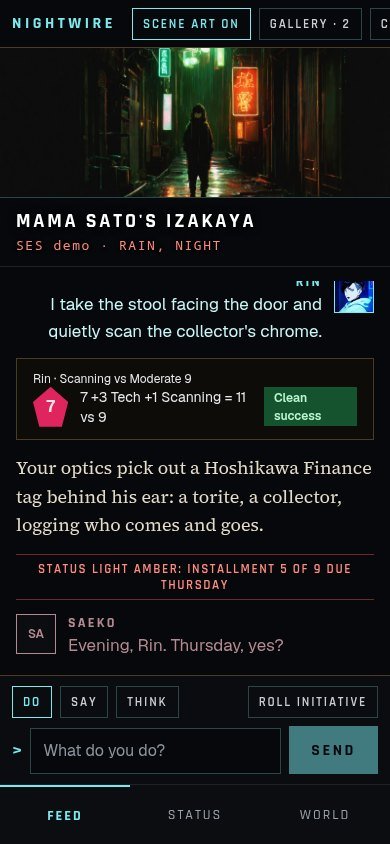
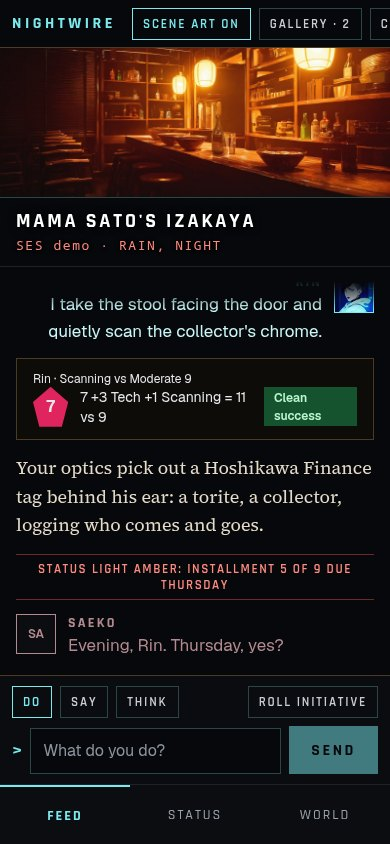
docs: refresh the repo with the new look
New banner, social preview and Homepage icon from approved Kuroshio art,
cast and places grids, and new screenshots of the play screen, overclock,
debt, tsukumogami, gallery and phone views. Removes the old SVG branding
and violet-theme screenshots.

diff --git a/homepage_integrate.py b/homepage_integrate.py
@@ -19,7 +19,7 @@ from pathlib import Path
 import yaml
 
 GROUP_NAME = "Nightwire"
-ICON_URL = "https://raw.githubusercontent.com/Cyb3rRon1n/nightwire/main/docs/images/logo.svg"
+ICON_URL = "https://raw.githubusercontent.com/Cyb3rRon1n/nightwire/main/docs/images/icon.png"
 
 
 def find_vulcan_stack(search_paths: list[Path] | None = None) -> Path | None:

diff --git a/README.md b/README.md
@@ -5,8 +5,8 @@
 </p>
 
 <p align="center">
-  <img src="docs/images/banner.svg"
-       alt="Nightwire - A cyberpunk AI game master for real-time tabletop sessions"
+  <img src="docs/images/banner.jpg"
+       alt="Nightwire, a cyberpunk AI game master: the wordmark over a rainy neon alley in Kuroshio"
        style="max-width: 100%; height: auto;">
 </p>
 
@@ -18,7 +18,17 @@ A cyberpunk tabletop RPG with an AI game master — playable solo or with friend
 
 Sibling project to [`oracle`](https://github.com/Cyb3rRon1n/oracle) (a D&D-flavored AI-DM) — built fresh rather than adapted, and researched independently at every design decision rather than leaning on oracle as precedent (see `ROADMAP.md`'s "Why a fresh project" section for the reasoning, and every spec under `docs/superpowers/specs/` for the citations behind each mechanic).
 
-**Status**: Phases 1–10 built and live-verified — ruleset, engine, AI narrator, web frontend, image generation (two backends, MLX and ComfyUI), text-to-speech (character-distinct voices), a skill system, photo-reference portraits, and attribute point-buy all work end to end. See `ROADMAP.md`'s Phases section for the full build history.
+**Status**: Phases 1–20 built:
+- the ruleset, engine and AI narrator,
+- image generation in one approved anime-cyberpunk look,
+- character-distinct voices,
+- skills and attributes,
+- chrome, humanity and chrome debt,
+- the tsukumogami origin,
+- the Kuroshio world bible and design studio, with 21 approved characters and the approved places,
+- the new messenger-style play screen.
+
+See `ROADMAP.md`'s Phases section for the full build history.
 
 ## What makes it Nightwire
 
@@ -26,7 +36,8 @@ Sibling project to [`oracle`](https://github.com/Cyb3rRon1n/oracle) (a D&D-flavo
 - **A tiered 1d10 resolution, not d20.** `1d10 + attribute + skill` vs. a difficulty class, deliberately the lowest-complexity class of cyberpunk system surveyed (Cyberpunk RED, CY_BORG), not Shadowrun-style dice pools.
 - **Four roles, checked against Cyberpunk 2077 itself**: Solo, Netrunner, Techie, Fixer — CP2077's three official archetypes plus a Fixer for social/negotiation. Six attributes (Body, Reflexes, Tech, Cool, Intellect, Presence).
 - **Structured output, not native tool-calling.** The narrator's tool choice and arguments are both constrained by a real JSON schema, after live testing found free-form tool-calling inventing plausible-but-wrong arguments on nearly every turn.
-- **Character-consistent image generation.** A portrait generated at character approval becomes a reference image for later scene generation, so a character looks like themselves across turns instead of a new face each time — on the default `flux_worker` backend. The `comfyui` backend (Docker/Linux-friendly, see below) doesn't support this yet: no IPAdapter/InstantID on the verified target instance, so it's text-prompt-only.
+- **A play screen that feels like a phone in the city.** The conversation reads like a messenger laid over the current scene's art: narration in serif, each NPC in their own colour, your lines in cyan, and debt notices as red HUD strips. Your sheet and objectives sit in a panel on one side, the party on the other. Drag the panels, fold them away, or go immersive, and the layout is remembered. On a phone it's one column with tabs.
+- **One look, one cast.** Every image is rendered in a single approved anime-cyberpunk style on a local ComfyUI. Every character and place has an approved design: a turnaround, expressions and a colour guide for people, and establishing shots for places. The play screen even takes NPC name colours from those designs.
 - **You roll the dice, the narrator lives with them.** When an action is risky, the narrator sets up the moment and stops; you click **Roll**, watch the d10 land with your modifiers, then the narrator tells what happens — true to the result, which stays in the story so it's remembered later.
 - **Chrome has a price.** Cyberware makes you better at the thing it's for — Kama blades, a Yomi jack, a Kagerou time-dilation rig — and costs humanity. Push an implant past its limits with ⚡ Overclock right on the roll card and it costs more. As humanity falls the narrator plays the slide; you never lose control of your character, and there's always a way back.
 - **Chrome is on credit.** Miss enough installments and the street notices: a polite final notice, then Hoshikawa remote-throttles your newest implant, then Saeko Kirigaya's torite crew comes to take it back. Pay it down with Jun Arakawa's gigs, or have Old Hara unlock it off the books — for a favor.
@@ -35,10 +46,21 @@ Sibling project to [`oracle`](https://github.com/Cyb3rRon1n/oracle) (a D&D-flavo
 
 ## World
 
-Nightwire's setting is **Kuroshio**, an original Japanese megacity in 2089 where everyone's chrome is on credit. It lives in `narrator/worlds/kuroshio.toml`:
+Nightwire's setting is **Kuroshio**, an original Japanese megacity in 2089 where everyone's chrome is on credit.
+
+<p align="center">
+  <img src="docs/images/cast.jpg" alt="Portraits of Nightwire's 21 approved characters in the anime-cyberpunk look, from Akira Sendo to Yuki Shirasagi, including Mama Sato, Saeko Kirigaya, Old Hara, Hachi and Rin Kageyama" width="820"><br>
+  <sub>The cast: 21 approved character designs, each with a turnaround, expressions and a colour guide</sub>
+</p>
+<p align="center">
+  <img src="docs/images/places.jpg" alt="Eight approved Kuroshio places: Ikebe Low, Mama Sato's izakaya, the Hoshikawa penthouse, Kuroshio Docks, Hanabira-chō, Tenjō Heights, the Yomi Line and the Ring Line" width="820"><br>
+  <sub>Some of Kuroshio's approved places, from the back-alley izakaya to the Hoshikawa penthouse</sub>
+</p>
+
+The world lives in `narrator/worlds/kuroshio.toml`:
 
 - **`primer` + `[glossary]`**: always in the narrator's system prompt (max 1,900 chars together).
-- **`[[district]]` / `[[faction]]` / `[[npc]]`**: `name`, `aliases`, `card` (max 400 chars); an NPC can also have a `home` district. Each turn, up to 4 cards are added: the district matching the current location first, then one NPC who lives there (unless a local NPC is already in the scene), then anything mentioned in the player's action or recent narration.
+- **`[[district]]` / `[[faction]]` / `[[npc]]` / `[[place]]`**: `name`, `aliases`, `card` (max 400 chars); an NPC can also have a `home` district, and a place (a spot inside a district, like the precinct or the danchi) reaches the narrator when it's the location or is mentioned. Each turn, up to 4 cards are added: the district matching the current location first, then one NPC who lives there (unless a local NPC is already in the scene), then anything mentioned in the player's action or recent narration.
 
 To add a place or faction, add an entry. Keep each card standalone (don't refer to "they" from another card), and make sure names and aliases are unique (matching ignores case and accents, so "Ōgane" already matches "Ogane"). The server checks the file at startup and refuses to start if it's invalid.
 
@@ -122,59 +144,54 @@ re-run — only touches its own "Nightwire" group.
 │   ├── session.py      #   Session dataclass, log, combat state
 │   ├── character.py    #   CharacterSheet
 │   ├── turns.py        #   join / start_combat / advance_turn / end_combat
+│   ├── chrome.py       #   implants, humanity, overclock
+│   ├── debt.py         #   installments, throttling, the repo crew
 │   └── persistence.py  #   JSON session storage
-├── narrator/            # the AI game master
-│   ├── client.py       #   Ollama client, NarratorResponse schema
-│   ├── tools.py         #   tool execution against engine state
-│   ├── image_backend.py #   ImageBackend protocol + FluxWorkerBackend + create_image_backend()
-│   └── comfyui_backend.py #   ComfyUIBackend — cross-platform, Docker-friendly, text-prompt-only
-├── server/              # WebSocket server (FastAPI)
-│   ├── app.py            #   app factory, connection lifecycle
-│   ├── dispatch.py       #   incoming message routing
-│   ├── narration.py      #   player action -> narrator -> tool/image execution
-│   └── views.py          #   per-player state broadcast (redacted for other players)
-├── frontend/            # Next.js web client (open-dungeon base, /nightwire route)
-├── tests/               # pytest: ruleset, engine, narrator, server
-└── docs/                # design specs, implementation plans, branding assets
+├── narrator/           # the AI game master
+│   ├── client.py       #   narrator client, NarratorResponse schema
+│   ├── tools.py        #   tool execution against engine state
+│   ├── referee.py      #   post-narration state checks (human moments, repo, pay)
+│   ├── world.py        #   Kuroshio world bible: primer, glossary, per-turn cards
+│   ├── designs.py      #   approved character and place design records
+│   ├── design_sheets.py #  ComfyUI graphs for the approved look
+│   ├── image_backend.py / comfyui_backend.py  # image generation
+│   └── worlds/         #   kuroshio.toml + designs/*.toml
+├── server/             # WebSocket server (FastAPI)
+├── tools/              # design studio, image tools, taste, palette export
+├── frontend/           # Next.js web client (open-dungeon base, /nightwire route)
+│   └── src/app/nightwire/play/  # the messenger play screen
+├── tests/              # pytest: ruleset, engine, narrator, server, tools
+└── docs/               # design specs, implementation plans, art direction, images
 ```
 
 ## Screenshots
 
-Real captures of the live frontend running its own "Neon Noir" theme — a cyberpunk visual identity independent of `open-dungeon`'s default fantasy-tabletop styling (see `ROADMAP.md`'s Phase 4 entry for the design reasoning).
-
-The play screen is a messenger-style conversation over the current scene's art, between resizable panels: your character sheet and objectives on the left, the party on the right. Drag the dividers, collapse either side to a thin rail, or switch to Immersive view; the layout is remembered per browser. Phones get the same conversation with a tab bar (design: `docs/superpowers/specs/2026-11-06-messenger-play-screen-design.md`).
+Captures of the live frontend, using hand-written demo sessions and approved Kuroshio art.
 
 <p align="center">
-  <img src="docs/images/screenshots/play-screen.jpg" alt="The Nightwire play screen: Rin's character sheet and objectives in a left panel, the conversation in the middle over scene art of a rainy neon alley with Mama Sato's lines in red, Rin's in cyan, a roll card and a red status-light strip, and the party in a right panel" width="720"><br>
-  <sub>The play screen: sheet and objectives, the conversation over the scene's art, and the party, in panels you can resize</sub>
+  <img src="docs/images/screenshots/play-screen.jpg" alt="The Nightwire play screen: Rin's character sheet and objectives in a left panel; in the middle, Mama Sato's izakaya behind the conversation with Mama Sato's lines in red, Rin's in cyan, a roll card and a red status-light strip; the party in a right panel" width="820"><br>
+  <sub>The play screen: your sheet and objectives, the conversation over the scene, and the party, in panels you can resize</sub>
 </p>
 <p align="center">
-  <img src="docs/images/screenshots/play-immersive.jpg" alt="The same play screen in Immersive view: both side panels collapsed to thin rails so the scene art and the conversation fill the window" width="720"><br>
-  <sub>Immersive view folds both side panels away, leaving the scene and the conversation</sub>
+  <img src="docs/images/screenshots/play-immersive.jpg" alt="The same scene in Immersive view: both side panels folded to thin rails so the izakaya and the conversation fill the window" width="820"><br>
+  <sub>Immersive view folds both side panels away</sub>
 </p>
 <p align="center">
-  <img src="docs/images/screenshots/play-phone.jpg" alt="The play screen at phone width: the scene art as a banner, the place name, the conversation and the input, with Feed, Status and World tabs along the bottom" width="260"><br>
-  <sub>On a phone: the scene as a banner, and tabs for Feed, Status and World</sub>
+  <img src="docs/images/screenshots/overclock.jpg" alt="A pending roll in the Hoshikawa penthouse: Hacking (Tech) vs Hard 12, with a Roll button and two overclock buttons, Yomi jack +3 and Kagerou +2 roll twice keep higher, each costing 1d6 humanity; the sheet lists both implants" width="820"><br>
+  <sub>You roll the dice. ⚡ Overclock an implant right on the roll card for a better shot, at a cost in humanity</sub>
 </p>
 <p align="center">
-  <img src="docs/images/screenshots/roll.png" alt="A Nightwire roll card: Stealth vs Hard 16, a d10 showing 6, the breakdown 6 +0 Cool +0 Stealth = 6 vs 16 and a red Failure badge, followed by the narrator's resolution" width="480"><br>
-  <sub>A player roll: the narrator set up the moment, the player clicked Roll, and the resolution follows the real result</sub>
+  <img src="docs/images/screenshots/debt.jpg" alt="Old Hara's clinic: red strips for Hoshikawa's final notice and the Kagerou being remote-throttled, Old Hara offering to unlock it off the books, Saeko Kirigaya warning that Thursday was yesterday; the sheet shows the Kagerou tagged Throttled and Repo crew coming, nine installments owed and a repo clock of five pips" width="820"><br>
+  <sub>Chrome is on credit: a throttled implant, the repo clock, and Saeko's crew on the way</sub>
 </p>
 <p align="center">
-  <img src="docs/images/screenshots/overclock.png" alt="A Nightwire roll card for Hacking vs Hard 12 with a Roll button and two overclock buttons: Yomi jack +3 and Kagerou +2 roll twice keep higher, each costing 1d6 humanity" width="480"><br>
-  <sub>⚡ Overclock on the roll card: spend humanity for a better shot at the moment of risk</sub>
-</p>
-<p align="center">
-  <img src="docs/images/screenshots/debt.png" alt="The Nightwire character sheet showing installments owed, a repo clock of six pips, Kagerou tagged Throttled and Repo crew coming, and torite notices in the log" width="480"><br>
-  <sub>Chrome debt: the repo clock, a throttled implant and Saeko's crew on the way</sub>
-</p>
-<p align="center">
-  <img src="docs/images/screenshots/tsukumogami.png" alt="A Nightwire character sheet for Hachi, a tsukumogami: the Shell and selfhood panel shows Selfhood 18, Appliance, and a Bodiless tag reading Living in a nearby machine, with installments owed and the repo clock" width="480"><br>
+  <img src="docs/images/screenshots/tsukumogami.jpg" alt="Hachi, a tsukumogami, at Hachi's pier: her shell has been repossessed and she flickers a vending machine's lights; Mitsu recognises her and a Selfhood +2 strip follows; the sheet shows Selfhood 18, Appliance, and Bodiless, living in a nearby machine" width="820"><br>
   <sub>Playing a tsukumogami: selfhood instead of humanity, and life without a shell</sub>
 </p>
 <p align="center">
-  <img src="docs/images/screenshots/scene.jpg" alt="Nightwire generated scene art of a flooded underpass lit by a flickering vending machine" width="480"><br>
-  <sub>A generated scene image for the current location and mood — real ComfyUI generation on a real GPU</sub>
+  <img src="docs/images/screenshots/gallery.jpg" alt="The gallery overlay showing the session's scene images, newest first" width="620">
+  <img src="docs/images/screenshots/play-phone.jpg" alt="The play screen at phone width: the scene as a banner, the conversation and the input, with Feed, Status and World tabs" width="190"><br>
+  <sub>The session's scene images on demand, and the same game on a phone</sub>
 </p>
 
 ## Contributing

diff --git a/ROADMAP.md b/ROADMAP.md
@@ -198,6 +198,11 @@ Each phase gets its own brainstorming pass (questions → approaches → design 
       - Headless Chrome against a staged session: drag and reload keeps the layout; the keyboard collapses and reopens panels; Gallery focus returns to its button; no horizontal scroll at 390px.
       - `next build`, tsc, eslint, 11 node tests and 767 pytest tests all pass.
       - Not yet checked: a live narrated turn with Ollama.
+    - **Fixed while refreshing the README (2026-11-06)**:
+      - Rajdhani was named in the CSS but never loaded, so everyone saw a fallback font. It is now loaded with `next/font` in the root layout.
+      - The feed now re-pins to the newest line when a scene image finishes loading, because reconnecting used to land on old lines.
+      - The conversation's top edge fades out under the place name.
+    - **Repo refresh (2026-11-06)**: a new banner, social preview and Homepage icon made from approved Kuroshio art; cast and places grids; new screenshots of every feature in the new play screen. The old SVG branding and violet-theme screenshots were deleted.
     - **Next — step 2, the Phone**: engine-sent texts, a pop-out phone for texting one character while talking to another, private texts in the feed, and per-contact memory of what you told them.
 
 ### Studio track (candidates, surfaced 2026-10-28)
